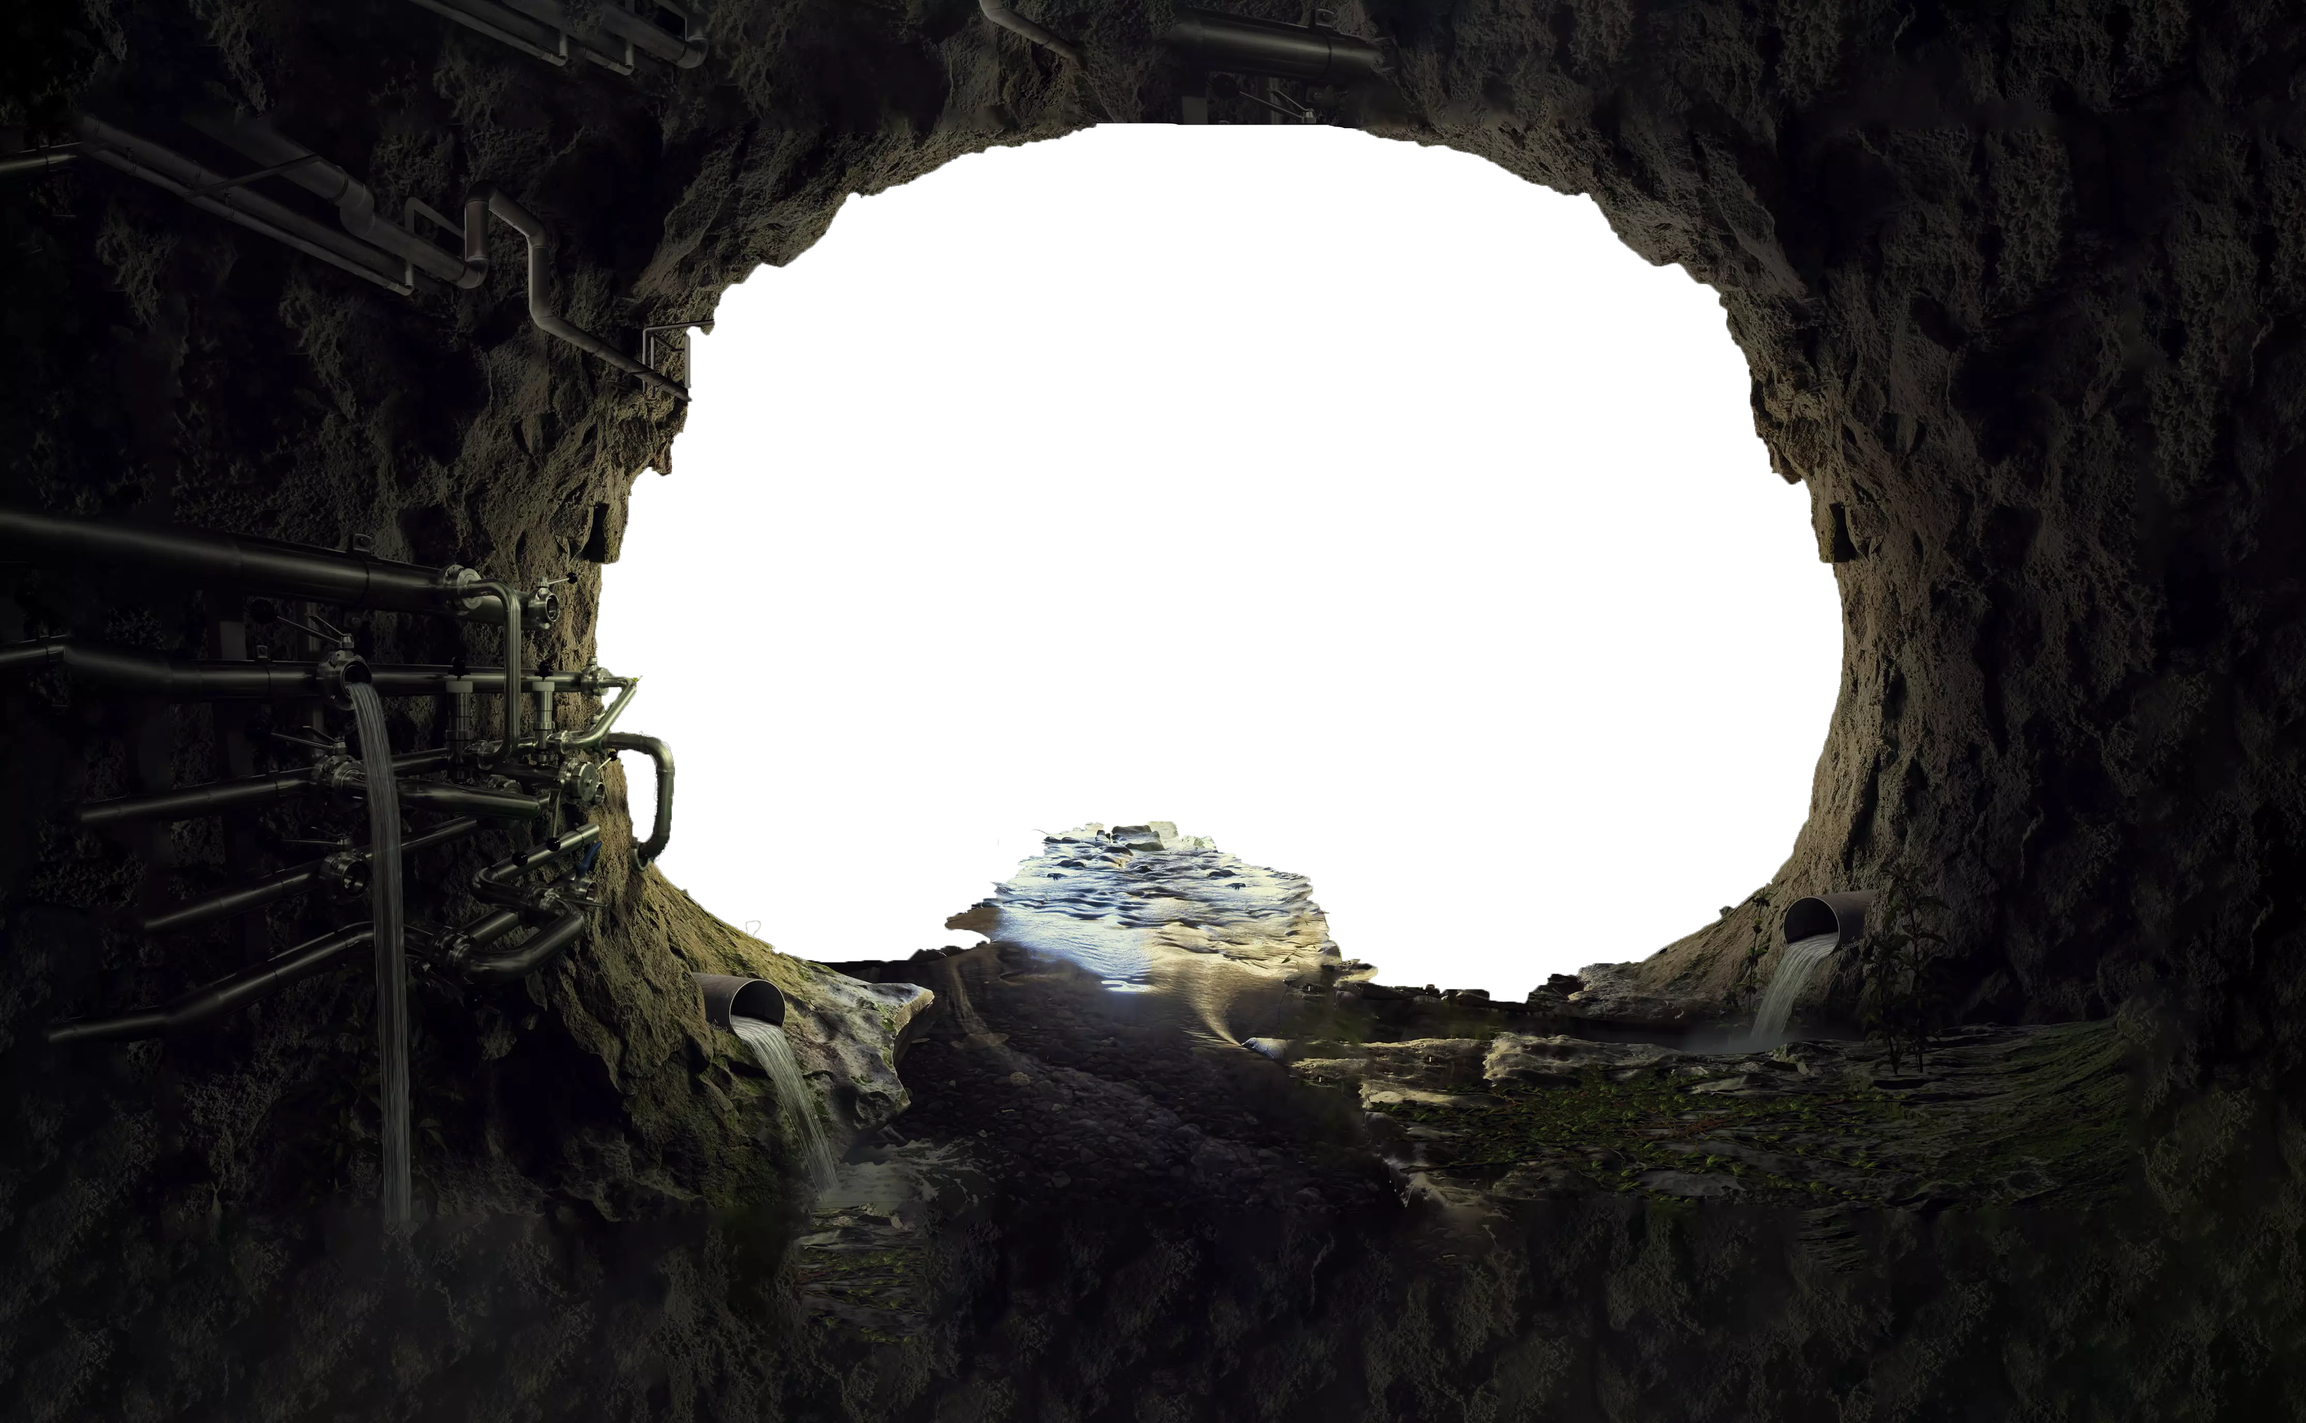
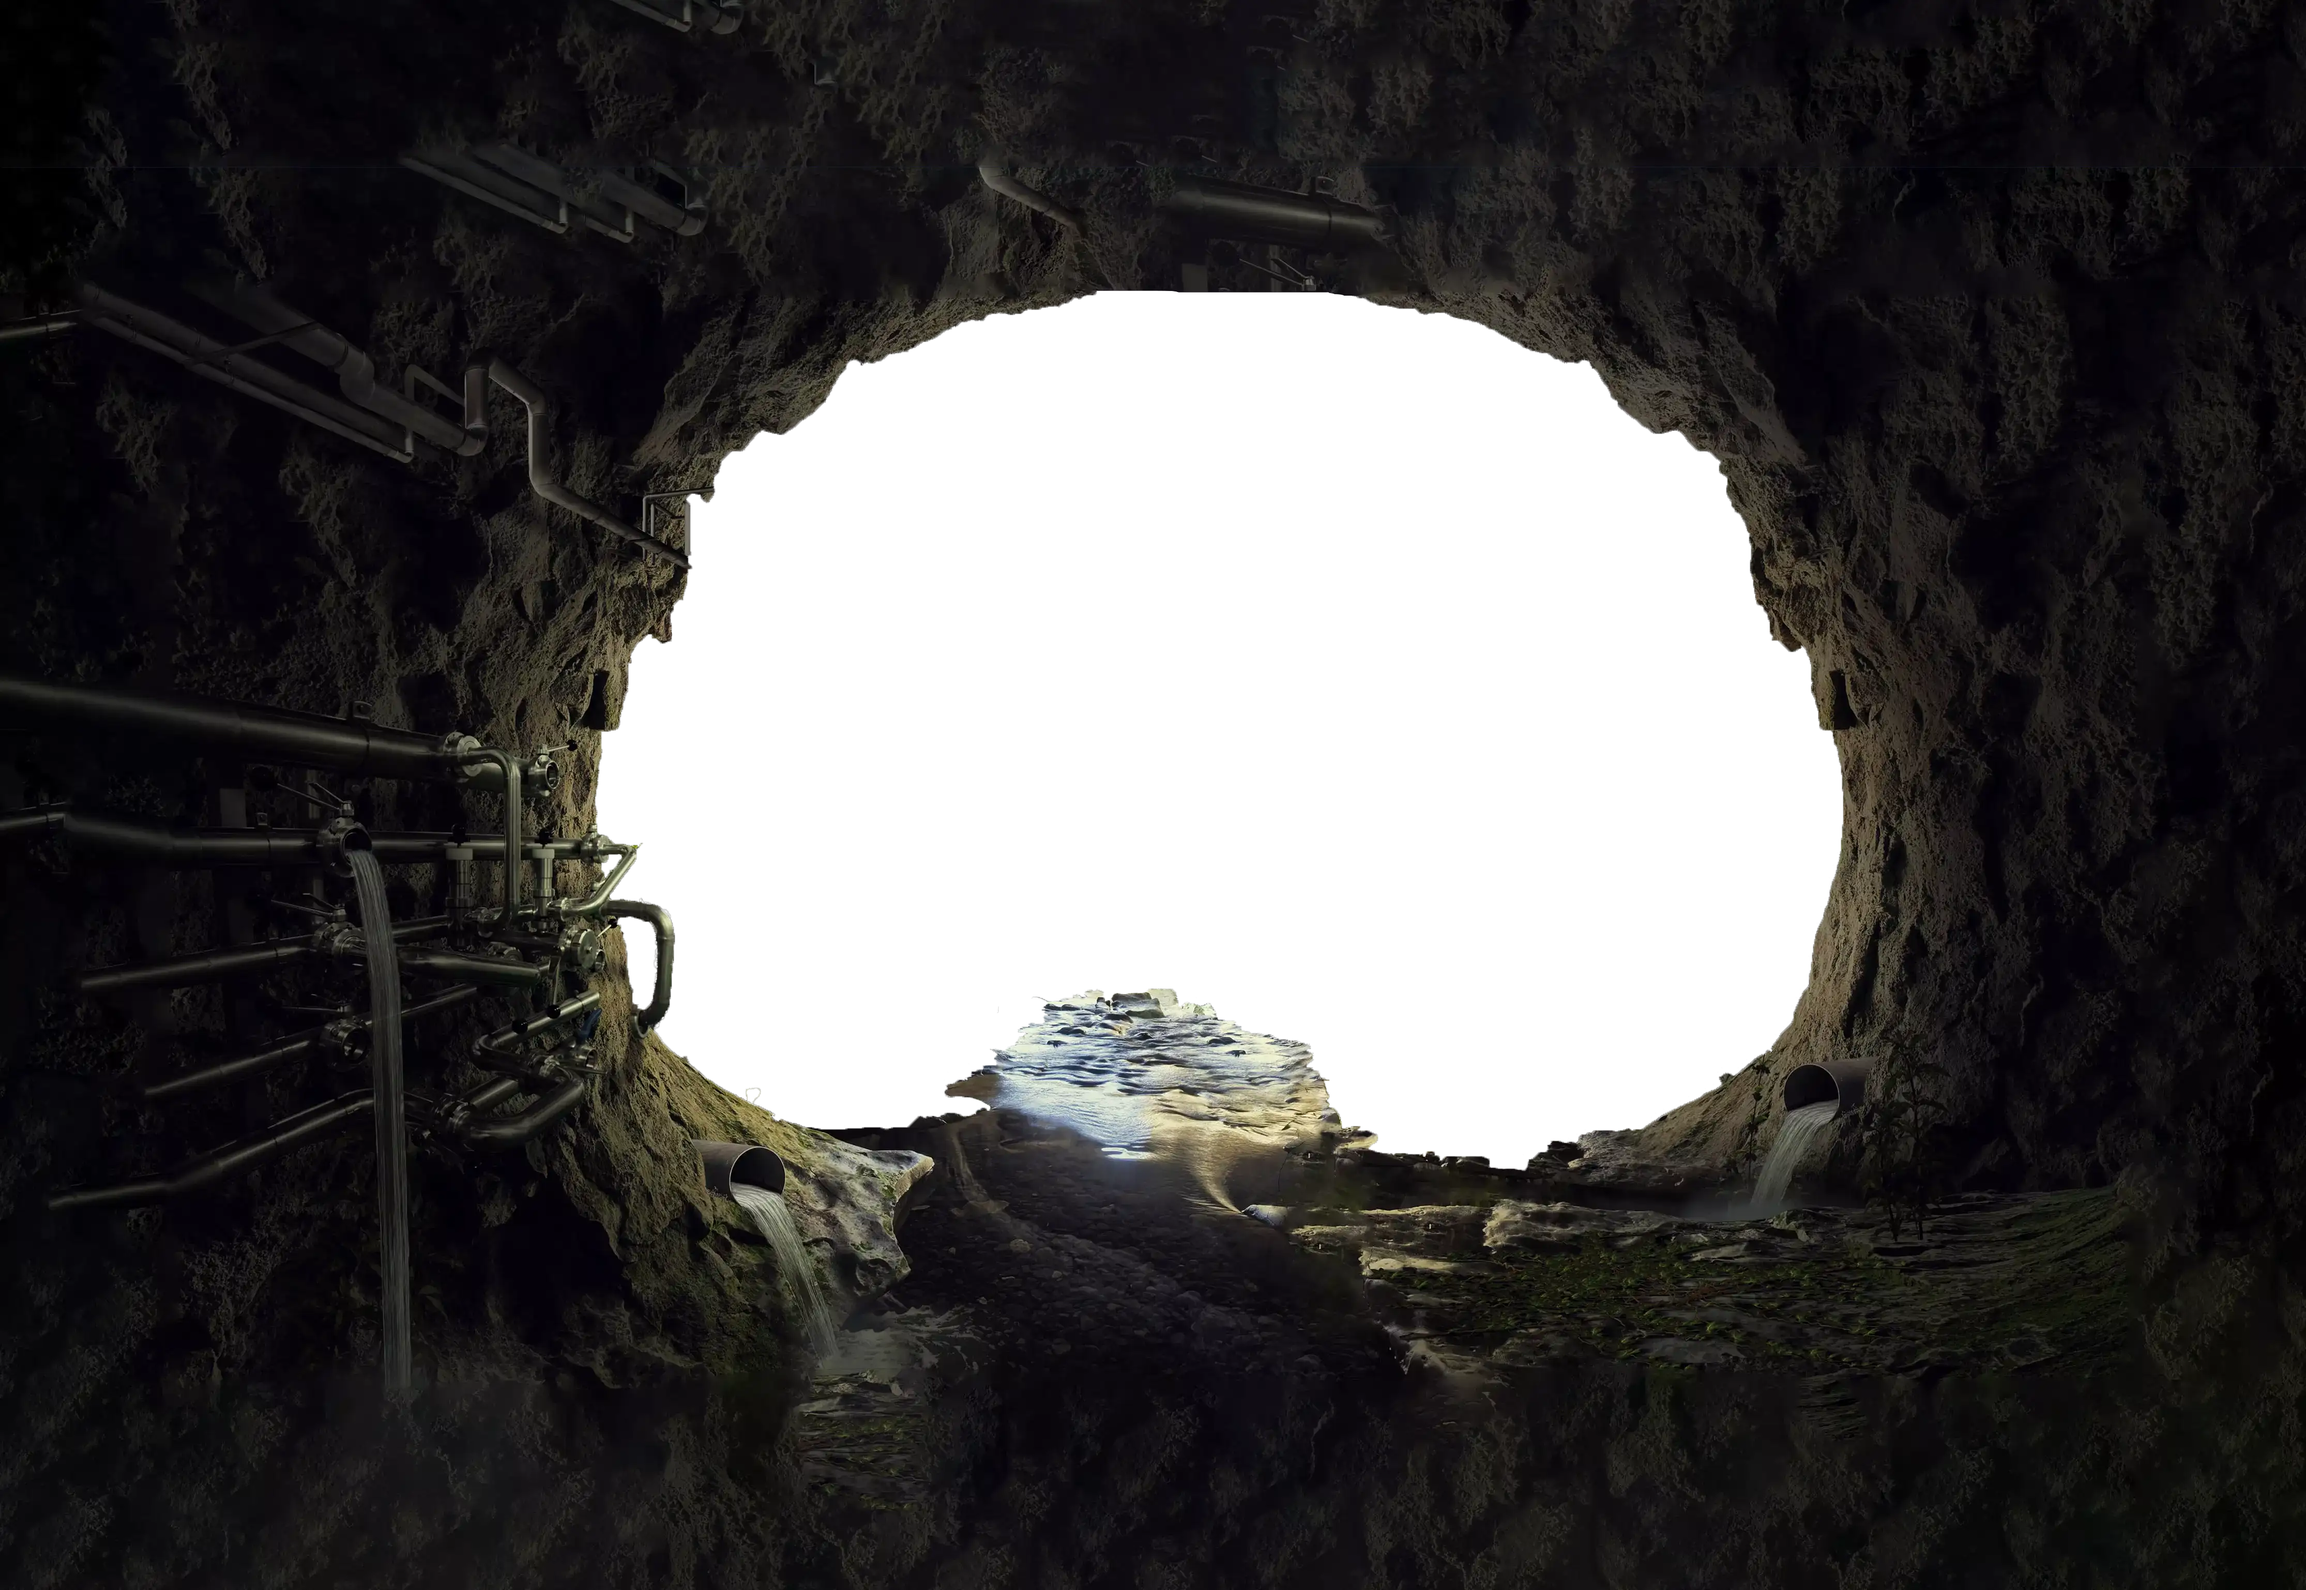
fixed hight resolution bugs.

diff --git a/src/components/secondSection/SecondSection.module.scss b/src/components/secondSection/SecondSection.module.scss
@@ -52,7 +52,7 @@
   .bg1 {
     width: 2165px;
     position: absolute;
-    top: calc(50% + 265px);
+    top: calc(50% + 435px);
     left: 50%;
     z-index: 88;
   }
@@ -60,7 +60,7 @@
   .mount1 {
     width: 300px;
     position: absolute;
-    top: calc(50% + 0px);
+    top: calc(50% + 150px);
     left: calc(50% - 950px);
     z-index: 87;
   }
@@ -68,7 +68,8 @@
   .mount2 {
     width: 2100px;
     position: absolute;
-    top: calc(50% + 91px);
+    top: calc(50% + 241px);
+    //top: calc(50% + 91px);
     left: calc(50% - 0px);
     z-index: 86;
   }
@@ -76,7 +77,7 @@
   .mount3 {
     width: 1200px;
     position: absolute;
-    top: calc(50% - 105px);
+    top: calc(50% + 55px);
     left: calc(50% - 76px);
     z-index: 85;
   }
@@ -84,7 +85,7 @@
   .mount4 {
     width: 1750px;
     position: absolute;
-    top: calc(50% - 90px);
+    top: calc(50% + 60px);
     left: calc(50% + 100px);
     z-index: 84;
   }
@@ -92,14 +93,15 @@
   .tree {
     width: 775px;
     position: absolute;
-    top: calc(50% + 225px);
+    top: calc(50% + 450px);
     left: calc(50% - 500px);
     z-index: 89;
   }
 
   .fog1 {
+    width: 100vw;
     position: absolute;
-    top: calc(50% + 200px);
+    top: calc(50% + 400px);
     left: calc(50% + 0px);
     z-index: 89;
   }
@@ -107,7 +109,7 @@
   .fog2 {
     position: absolute;
     width: 2300px;
-    top: calc(50% + 69px);
+    top: calc(50% + 210px);
     left: calc(50% - 0px);
     z-index: 89;
     opacity: .6;

diff --git a/src/components/firstSection/FirstSection.module.scss b/src/components/firstSection/FirstSection.module.scss
@@ -13,7 +13,7 @@
 .cave1 {
   position: absolute;
   width: 2150px;
-  top: calc(50% + 50px);
+  top: calc(50% - 30px);
   left: 50%;
   z-index: 99;
 }
@@ -77,8 +77,8 @@
 .plant4 {
   position: absolute;
   width: 250px;
-  top: calc(50% + 410px);
-  left: calc(50% + (-215px));
+  top: calc(50% + 580px);
+  left: calc(50% + (-270px));
   z-index: 99;
 }
 

diff --git a/src/App.scss b/src/App.scss
@@ -9,9 +9,10 @@
 
 .fakeImg {
   width: 2050px;
-  height: 1000px;
+  height: 100vh;
+  max-height: 1040px;;
   position: absolute;
-  top: 50%;
+  top: calc(50% + 65px);
   left: 50%;
   display: none;
 }
